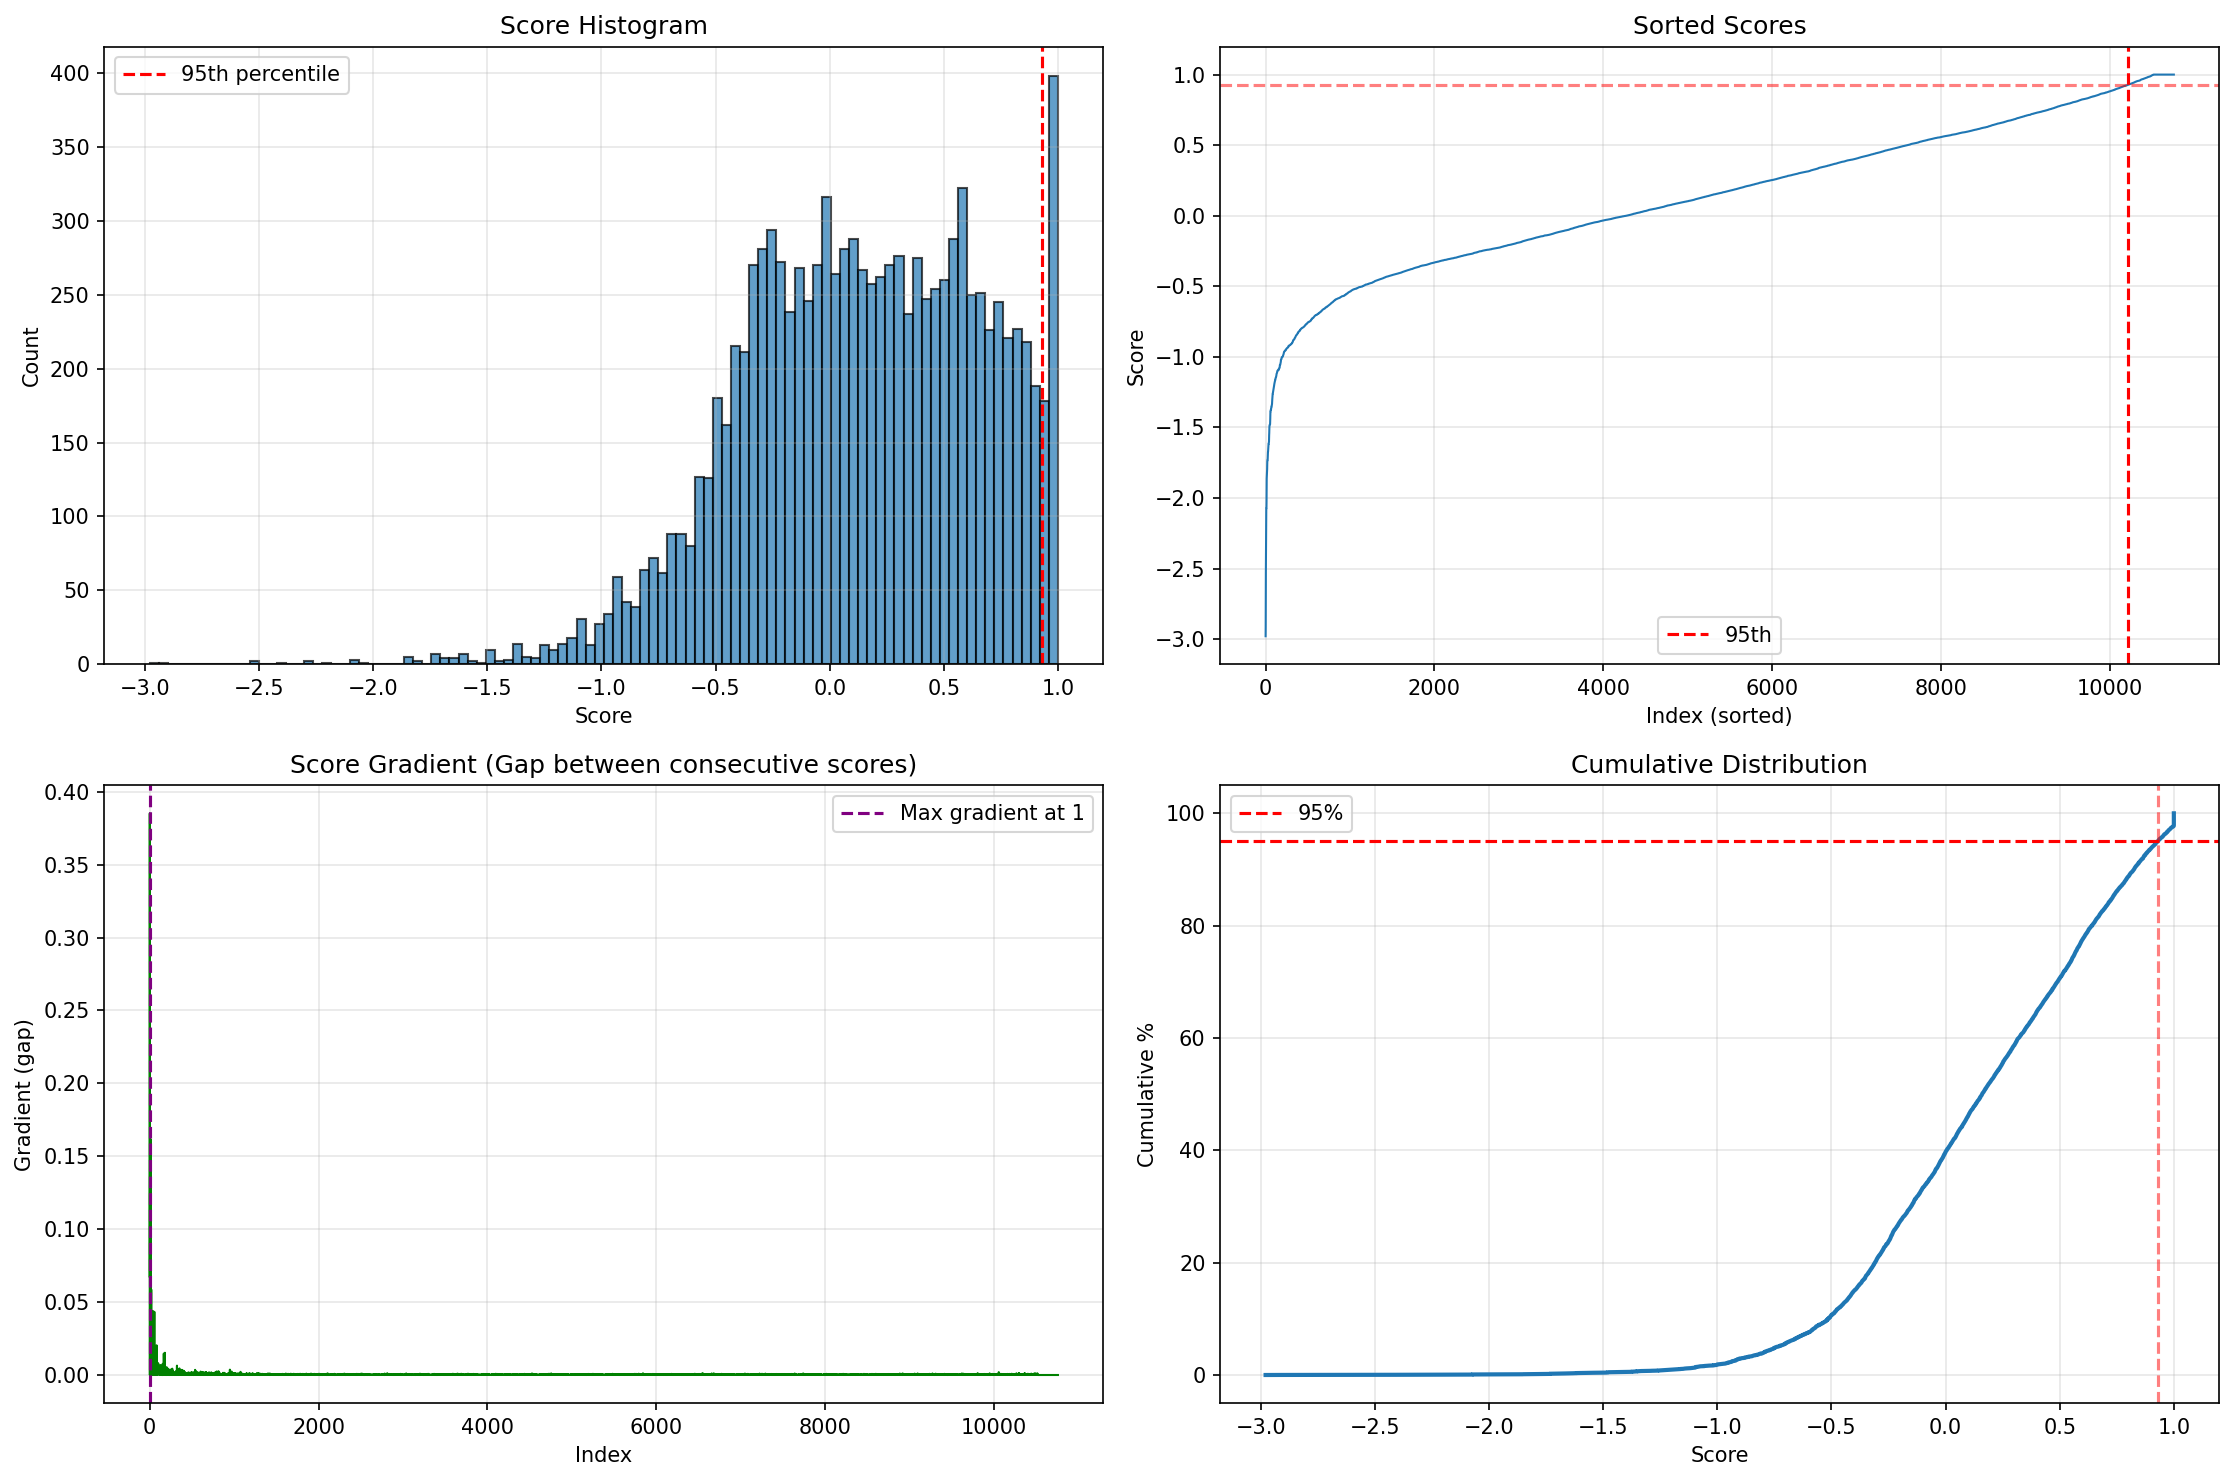
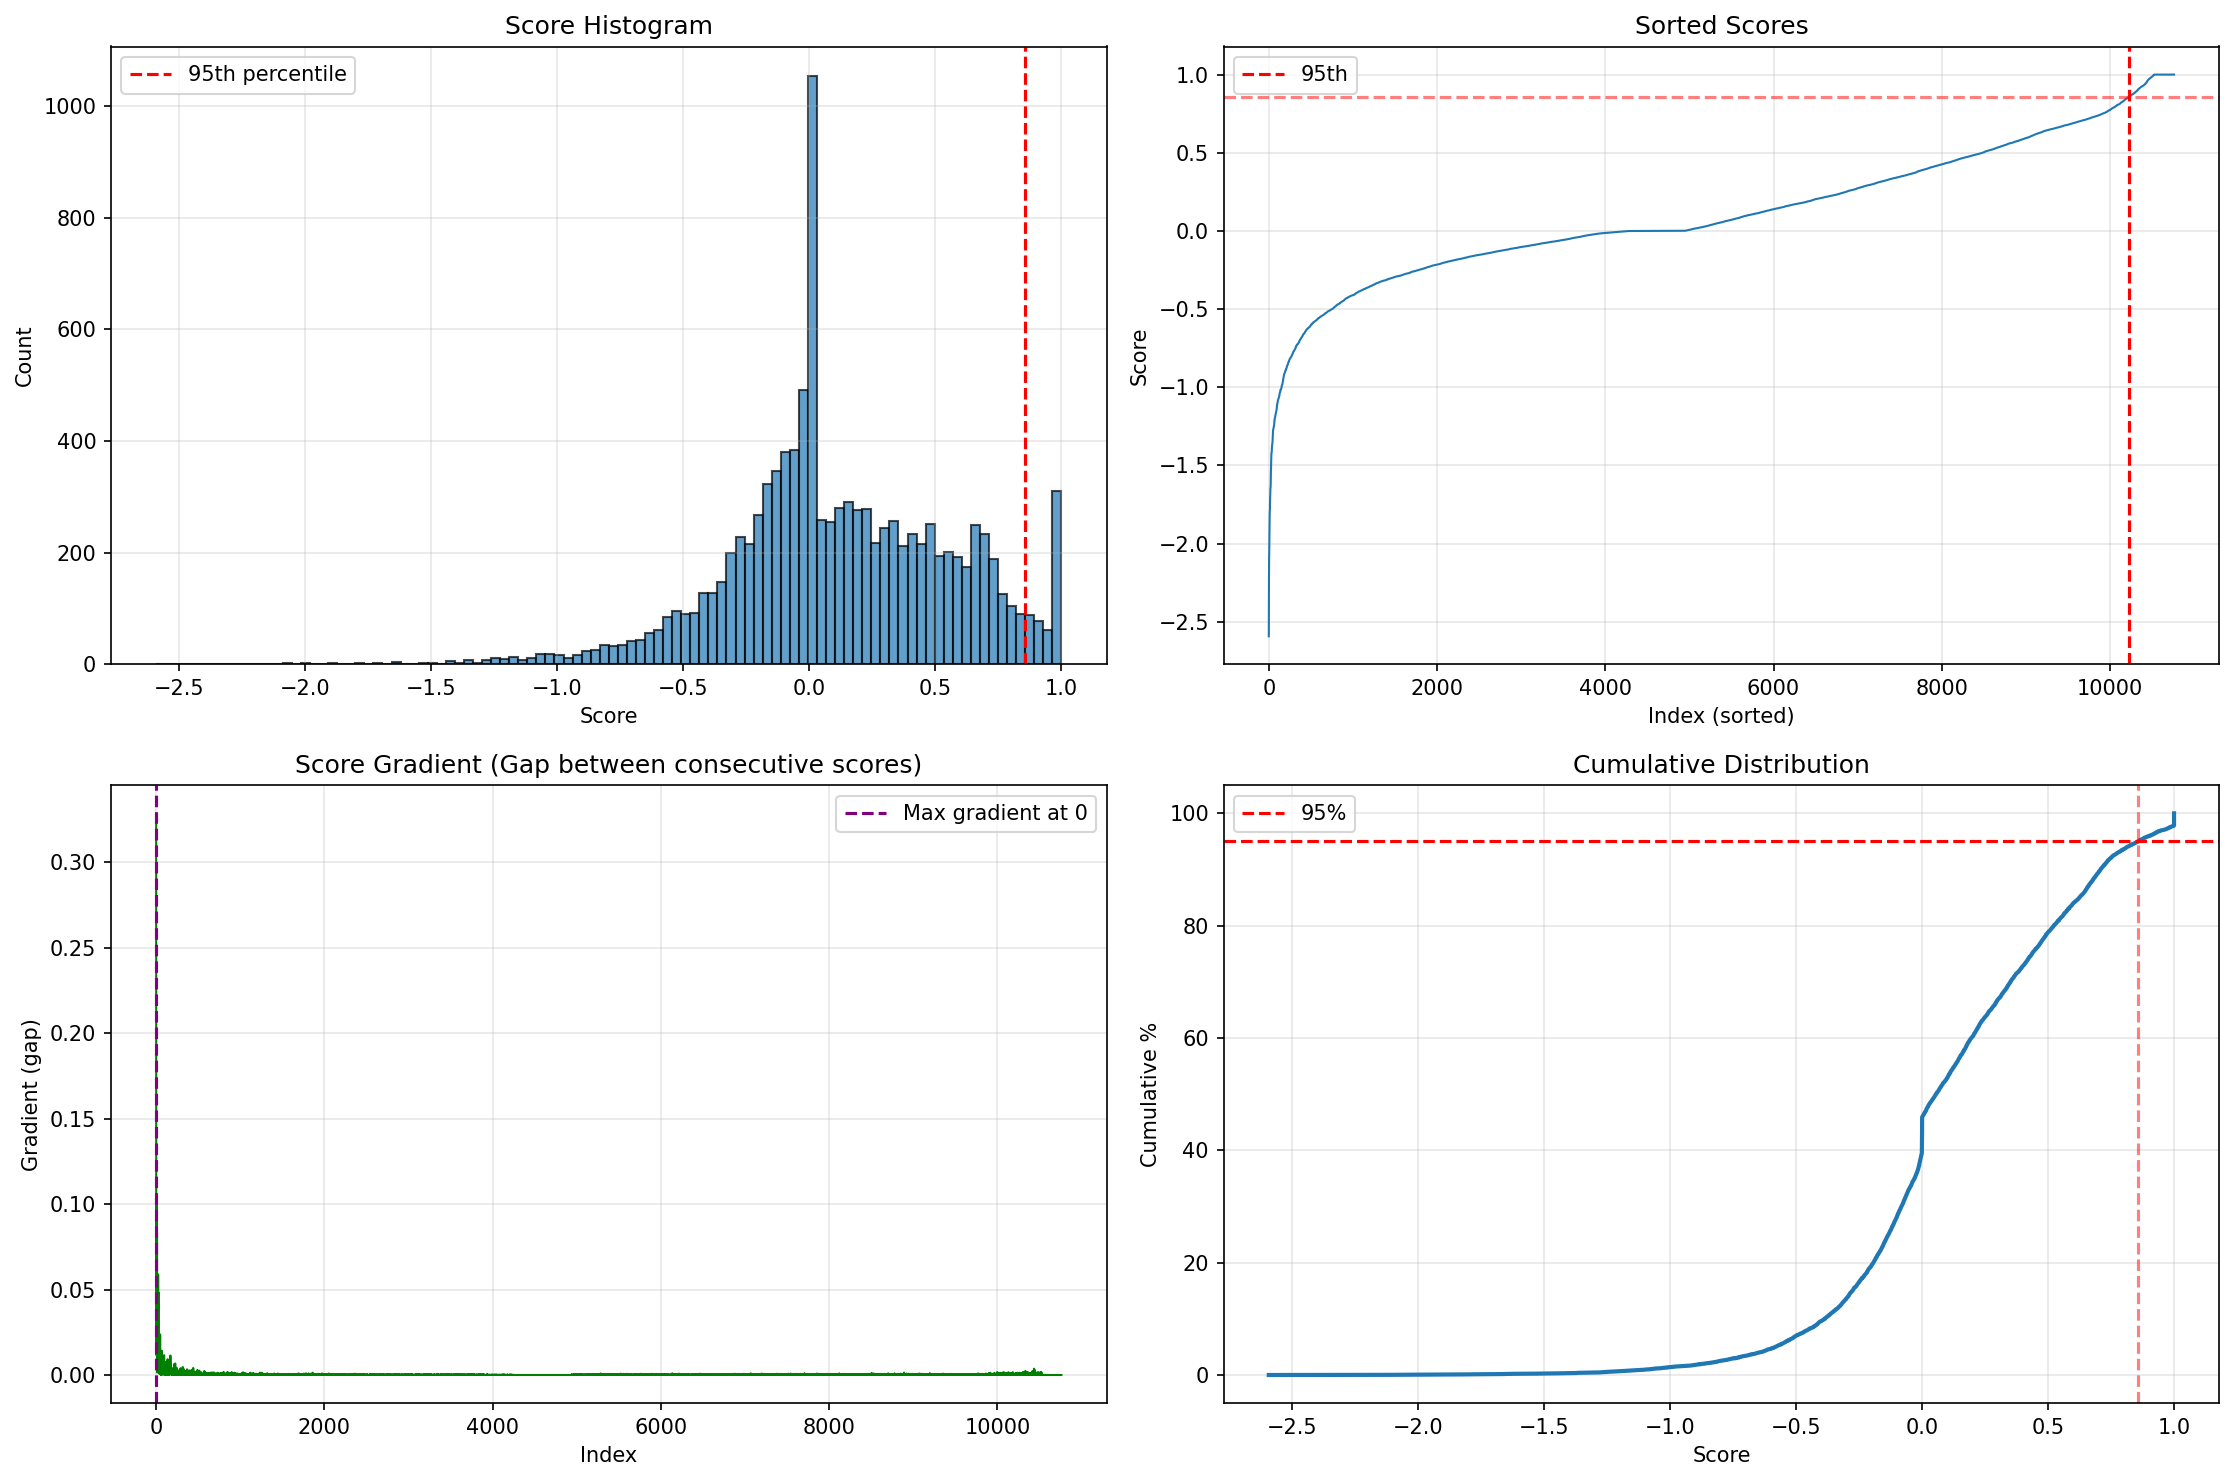
init: final code version for 2026 APWCS/VTS

diff --git a/dataset.py b/dataset.py
@@ -10,9 +10,16 @@ class UCFTestVideoDataset(data.Dataset):
     def __init__(self, conall_path, nalist_path):
         self.nalist = np.load(nalist_path)                 # (N,2)
         self.total_T = int(self.nalist[-1, 1])
+        
         self.con_all = np.memmap(conall_path, dtype="float32", mode="r",
                                  shape=(self.total_T, 10, args.feature_size))
+        '''self.con_all  = np.load(conall_path, mmap_mode="r")
+
         assert int(self.nalist[-1, 1]) == self.total_T, "nalist end index must equal total_T"
+        assert self.con_all.shape == (self.total_T, 10, args.feature_size), (
+            f"Test feature shape mismatch: {self.con_all.shape} vs "
+            f"{(self.total_T, 10, args.feature_size)}"
+        )'''
 
 
     def __len__(self):
@@ -39,12 +46,22 @@ class UCFTrainVideoDataset_Stratified(data.Dataset):
         assert int(self.nalist[-1, 1]) == self.total_T, (
             f"nalist total_T mismatch: nalist_end={int(self.nalist[-1, 1])}, pseudo_T={self.total_T}"
         )
-        self.con_all = np.memmap(
+        assert len(self.confidences) == self.total_T, (
+            f"confidence length mismatch: confidence_T={len(self.confidences)}, pseudo_T={self.total_T}"
+        )
+        self.con_all = np.load(conall_path, mmap_mode="r")
+        assert self.con_all.shape == (self.total_T, 10, args.feature_size), (
+            f"Train feature shape mismatch: {self.con_all.shape} vs "
+            f"{(self.total_T, 10, args.feature_size)}"
+        )
+        
+        '''self.con_all = np.memmap(
             conall_path,
             dtype="float32",
             mode="r",
             shape=(self.total_T, 10, args.feature_size)
-        )
+        )'''
+        
         print("loaded feature:", conall_path, self.con_all.shape)
 
         self.window_size = window_size

diff --git a/test.py b/test.py
@@ -343,6 +343,7 @@ def eval_xd_with_episodic_tta(
     warmup_segments=args.warmup_segments,
     eval_exclude_segments=None,
     verbose_every=100,
+    use_adapter_without_tta=False,   # 추가
 ):
 
     total_T = X_flat.shape[0]
@@ -387,8 +388,14 @@ def eval_xd_with_episodic_tta(
         adapter_episode.eval()
         with torch.no_grad():
             x_video_in = x_video.unsqueeze(0)                 # (1,T,1024)
-            x_2048 = adapter_episode(x_video_in)              # (1,T,2048)
-            prob, _ = model(x_2048, return_logits=True)
+            #x_2048 = adapter_episode(x_video_in)              # (1,T,2048)
+
+            if use_tta or use_adapter_without_tta:
+                model_input = adapter_episode(x_video_in)
+            else:
+                model_input = x_video_in
+
+            prob, _ = model(model_input, return_logits=True)
 
         #prob = prob.squeeze(-1).detach().cpu().numpy()     # (T_i,)
         prob = prob[0, :, 0].detach().cpu().numpy() 
@@ -1141,6 +1148,7 @@ if __name__ == '__main__':
         use_tta=False,
         verbose_every=100,
         exclude_prefix_from_eval=False,
+        use_adapter_without_tta=False,
     )
     print("\n[BASELINE]")
     print("AUC:", res_base["auc"])
@@ -1160,6 +1168,7 @@ if __name__ == '__main__':
         exclude_prefix_from_eval=True,    # normal prototype 제외 평가
         warmup_segments=args.warmup_segments,
         eval_exclude_segments=None,       # k-sensitivity 실험 - 평가는 항상 앞 20개 제외로 고정
+        use_adapter_without_tta=False,
     )
     print("\n[TTA BASELINE - SUFFIX ONLY]")
     print("AUC:", res_tta_base["auc"])

diff --git a/train.py b/train.py
@@ -8,12 +8,13 @@ def adaptive_hybrid_loss(outputs, targets, threshold=0.3):
     error = torch.abs(outputs - targets)
     
     bce = F.binary_cross_entropy(outputs, targets, reduction='none')
-    hb = F.huber_loss(outputs, targets, delta=0.3, reduction='none')
+    #hb = F.huber_loss(outputs, targets, delta=0.3, reduction='none')
+    mse = 0.5 * F.mse_loss(outputs, targets, reduction='none')
     
     # Error 작으면 huber, 크면 BCE
     mask = (error < threshold).float()
     
-    loss = mask * hb + (1 - mask) * bce
+    loss = mask * mse + (1 - mask) * bce
     return loss
 
 
@@ -57,9 +58,23 @@ def concatenated_train_variable_length(train_loader, model, optimizer, epoch,
 
         labels = torch.where(
             (confidences < 0.7),
-            labels * confidences + (1 - labels) * (1 - confidences),
+            labels * confidences + (1-labels) * (1 - confidences),
             labels
         )
+
+        #labels = labels * confidences + 0.5 * (1 - confidences)
+
+        '''soft_labels  = labels * confidences + (1-labels) * (1-confidences)
+
+        alpha = torch.clamp(
+            (confidences - 0.5) / (0.7 - 0.5),
+            0.0, 1.0
+        )
+        # conf=0.5 → alpha=0 → soft_labels 그대로
+        # conf=0.7 → alpha=1 → binary labels 그대로
+        # 중간 → 선형 보간
+
+        labels = alpha * labels + (1-alpha) * soft_labels'''
         
         loss = adaptive_hybrid_loss(
             outputs, labels, threshold=0.3

diff --git a/pseudo_proto_dist_swap_sht.py b/pseudo_proto_dist_swap_sht.py
@@ -43,7 +43,7 @@ def find_optimal_threshold_gmm(scores, method='gmm_2component'):
     
         return threshold
     
-    return np.percentile(valid_scores, 95)
+    return np.percentile(valid_scores, 80)
 
 
 def temporal_attraction(video_scores, attraction_strength=0.4, repulsion_strength=0.2, iterations=3):
@@ -58,8 +58,8 @@ def temporal_attraction(video_scores, attraction_strength=0.4, repulsion_strengt
                 continue'''
             
             # Window (i-5 ~ i+5)
-            window_start = max(0, i - 5)
-            window_end = min(len(scores), i + 6)
+            window_start = max(0, i - 1)
+            window_end = min(len(scores), i + 2)
             window = scores[window_start:window_end]
             
             # 주변에 더 높은 score 있으면 끌어올림
@@ -476,9 +476,9 @@ def main():
         score_normalization='zscore',
         prototype_method='none',
         use_attraction=True,
-        attraction_strength=0.6,
-        attraction_iterations=2,
-        repulsion_strength=0.4,
+        attraction_strength=0.4,
+        attraction_iterations=5,
+        repulsion_strength=0.1,
         remove_isolated_abn=True,  
         isolated_abn_min_length=1,  # N-A-N 제거
         fill_isolated_norm=True,  

diff --git a/confidence.py b/confidence.py
@@ -59,7 +59,7 @@ class BidirectionalTemporalConsistency:
         
         normal_proto_k = 5
         
-        if (t >= 0) & (t< normal_proto_k):
+        if t< normal_proto_k:
             return 1.0
 
 
@@ -76,7 +76,7 @@ class BidirectionalTemporalConsistency:
             feat_dist = prev_feat_dist
             label_diff = prev_label_diff
 
-            feat_similarity = np.exp(-feat_dist / 10.0)
+            feat_similarity = np.exp(-feat_dist / 15.0)
             label_consistency = 1.0 - label_diff
 
             confidence = (feat_similarity) * (label_consistency) + (1 - feat_similarity) * (1 - label_consistency)
@@ -116,7 +116,7 @@ class BidirectionalTemporalConsistency:
         
         # 1. Feature similarity (0~1)
         #    가까우면 1, 멀면 0
-        feat_similarity = np.exp(-feat_dist / 10.0)
+        feat_similarity = np.exp(-feat_dist / 15.0)
         
         # 2. Label consistency (0 or 1)
         #    같으면 1, 다르면 0

diff --git a/conf_main.py b/conf_main.py
@@ -22,13 +22,18 @@ def main():
     print(f"  Total segments: {total_T:,}")
     print(f"  Total videos: {len(nalist)}")
     
+    '''
     train_data = np.memmap(
         train_conall_path,
         dtype="float32",
         mode="r",
         shape=(total_T, 10, args.feature_size)
     )
+    '''    
+    train_data = np.load(train_conall_path, mmap_mode="r")
+    
     print(f"  Features loaded: {train_data.shape}")
+
     
     # ⭐ Pseudo labels (pseudo.py를 돌려서 얻은 pseudo label)
     pseudo_labels = np.load(pseudo_labels_path)

diff --git a/mainv2.py b/mainv2.py
@@ -88,7 +88,7 @@ if __name__ == '__main__':
     #UCF
     #scheduler = optim.lr_scheduler.MultiStepLR(optimizer, milestones=[20,30], gamma=0.1)
     #SHT
-    scheduler = optim.lr_scheduler.MultiStepLR(optimizer, milestones=[25,40], gamma=0.1)
+    scheduler = optim.lr_scheduler.MultiStepLR(optimizer, milestones=[35,40], gamma=0.1)
     
     auc, ap = test(test_loader, model, args, device)
     print(f"\nEpoch 0 - AUC: {auc:.4f}, AP: {ap:.4f}")

diff --git a/model.py b/model.py
@@ -20,6 +20,7 @@ class Model_V2_AllCNN(nn.Module):
         self.fc_out = nn.Linear(32, 1)
         '''
         self.conv1 = nn.Conv1d(n_features, 256, kernel_size=3, padding=3//2)
+        #self.conv1 = nn.Conv1d(n_features, 256, kernel_size=3, padding=3//2, padding_mode='replicate')
         self.bn1 = nn.BatchNorm1d(256)
 
         self.conv_att1 = nn.Conv1d(n_features, 256, kernel_size=3, padding=3//2)
